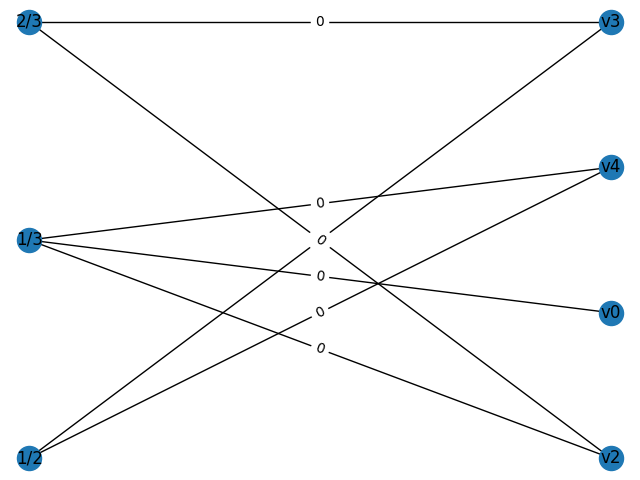
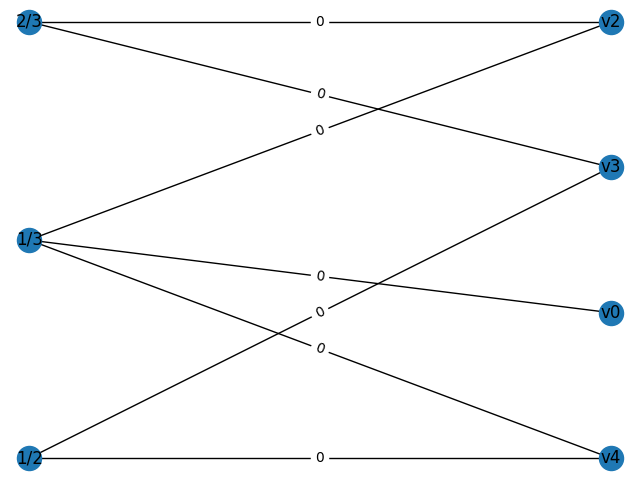
LIP fixed, compare broken

diff --git a/algorithms/LP_all_constraints.py b/algorithms/LP_all_constraints.py
@@ -10,7 +10,7 @@ import itertools
 import time
 
 
-def linear_prog_method(TOPOLOGY, DZL, BPD, R, g_r_path, all_constr=True, constr_it=False):
+def linear_prog_method(TOPOLOGY, DZL, CLI, BPD, R, g_r_path, all_constr=True, constr_it=False):
     # SET UP PATH PLANNER
 
     logging.debug(f' -- Beginning LP method. all_constr: {all_constr}')
@@ -25,7 +25,7 @@ def linear_prog_method(TOPOLOGY, DZL, BPD, R, g_r_path, all_constr=True, constr_
     # LP problem
 
     MODEL = mip.Model()
-    X = [MODEL.add_var(var_type=mip.CONTINUOUS) for i in range(0, len(DZL))]
+    X = [MODEL.add_var(var_type=mip.CONTINUOUS) for i in range(0, len(CLI))]
 
     # constraintek feltoltese
 
@@ -45,21 +45,21 @@ def linear_prog_method(TOPOLOGY, DZL, BPD, R, g_r_path, all_constr=True, constr_
         pg = func.get_coords_for_node(pnodes[1], TOPOLOGY)
 
         # get adjacent cuts
-        neigh_cuts = [v for v in BPD.graph.nodes if BPD.graph.has_edge(n, v)]
-        d["neigh"] = len(neigh_cuts)
-
-        ids = set()
-        for c in neigh_cuts:
-            ids.update(BPD.return_ids_for_cut(c))
-        ids = list(ids)
+        nc = [v for v in BPD.graph.nodes if BPD.graph.has_edge(n, v)]   # neighbouring cuts
+        d["neigh"] = len(nc)
 
         if all_constr:
-            i_subsets = itertools.chain.from_iterable(itertools.combinations(ids, r) for r in range(1, len(ids) + 1))
+            p_cuts = itertools.chain.from_iterable(itertools.combinations(nc, r) for r in range(1, len(nc) + 1))
         else:
-            i_subsets = [ids]
+            p_cuts = [nc]
 
-        for subs in i_subsets:
-            PP.calculate_r_detour(pi, pg, subs)
+        for cuts in p_cuts:
+            ids = set()
+            for c in cuts:
+                ids.update(BPD.return_ids_for_cut(c))
+            ids = list(ids)
+
+            PP.calculate_r_detour(pi, pg, ids)
             pp_cost = PP.getCost()
             pp_path = PP.getPath()
 
@@ -67,7 +67,7 @@ def linear_prog_method(TOPOLOGY, DZL, BPD, R, g_r_path, all_constr=True, constr_
             d["cost"] = pp_cost
             d["ids"] = set(ids)
 
-            MODEL += mip.xsum([X[k] for k in subs]) <= pp_cost
+            MODEL += mip.xsum([X[CLI.indexOf(k)] for k in cuts]) <= pp_cost
             CL[c_index] = (pnodes, pp_path)
             c_index += 1
 
@@ -105,6 +105,6 @@ def linear_prog_method(TOPOLOGY, DZL, BPD, R, g_r_path, all_constr=True, constr_
     l_out.write_paths("{}/{}".format(g_r_path, "lp_paths.txt"), chosen_edges)
 
     logging.debug(" ## Comparing LP solution to actual lower bound:")
-    compare_chosen_edges(chosen_edges, DZL, MODEL)
+    #compare_chosen_edges(chosen_edges, DZL, MODEL)
 
     return MODEL, PP, chosen_edges

diff --git a/main.py b/main.py
@@ -78,7 +78,8 @@ for g in func.load_graph_names(FILES):
 
         func.append_topology_with_repeaters(TOPOLOGY, 10)
 
-        BPD = BipartiteDisasterGraph(CutList(DZL, TOPOLOGY), TOPOLOGY)
+        CL = CutList(DZL, TOPOLOGY)
+        BPD = BipartiteDisasterGraph(CL, TOPOLOGY)
 
         BPD.plot("asd.png")
 
@@ -108,7 +109,7 @@ for g in func.load_graph_names(FILES):
         if switch == -1:
             from algorithms.heuristic_version_2 import heuristic_2
             from algorithms.LP_all_constraints import linear_prog_method
-            mod, pp, lp_edges = linear_prog_method(TOPOLOGY, DZL, BPD, R, FILES['g_r_path_data'], all_constr=True)
+            mod, pp, lp_edges = linear_prog_method(TOPOLOGY, DZL, CL, BPD, R, FILES['g_r_path_data'], all_constr=True)
             compare_chosen(lp_edges, TOPOLOGY, R, "LP")
             logging.info("-")
             he_edges = heuristic_2(TOPOLOGY, DZL, BPD, R, FILES['g_r_path_data'], pp, mod)

diff --git a/NetworkModels/DisasterCuts.py b/NetworkModels/DisasterCuts.py
@@ -84,6 +84,19 @@ class CutList:
         l.sort()
         return l
 
+    def indexOf(self, item):
+        for i in range(0, len(self.cutList)):
+            if self.cutList[i].id == int(item[1:]):
+                return i
+        raise Exception("cut doesnt exist")
+
+
+    def __len__(self):
+        return len(self.cutList)
+
+    def __getitem__(self, item):
+        return self.cutList[item]
+
     def __str__(self):
         s = "-- DISASTER CUTS --\n"
         for c in self.cutList:

diff --git a/algorithms/heuristic_version_2.py b/algorithms/heuristic_version_2.py
@@ -135,7 +135,7 @@ def heuristic_2(TOPOLOGY, DZL, BPD, R, g_r_path, PP, compare_model=None):
 
     logging.debug(" ## Comparing HEURISTIC solution to actual lower bound:")
 
-    if compare_model is not None:
-        compare_chosen_edges(chosen_edges, DZL, compare_model)
+    #if compare_model is not None:
+        #compare_chosen_edges(chosen_edges, DZL, compare_model)
 
     return chosen_edges
